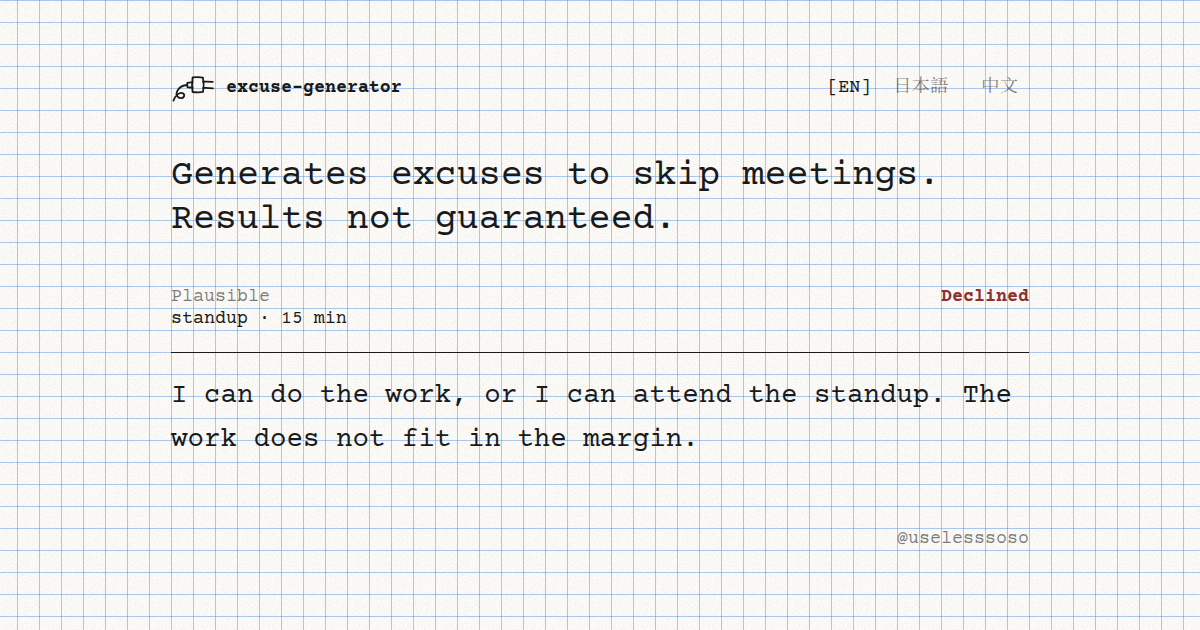
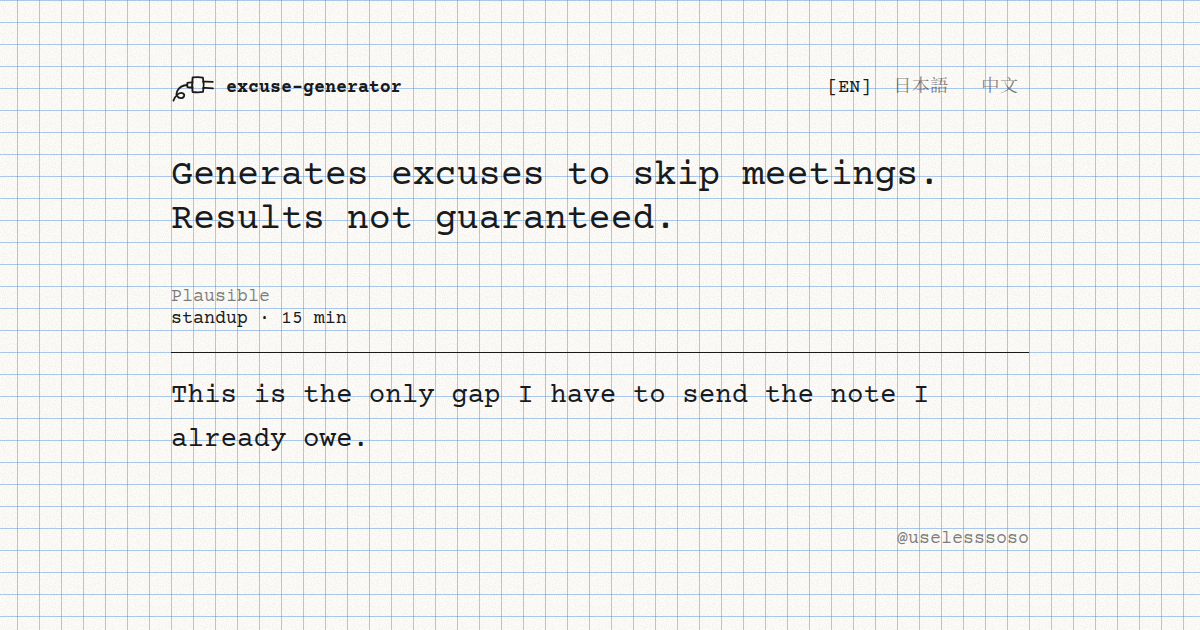
Show the declined label only for a decline message.
The red Declined, 欠席, and 已拒绝 stamp stays hidden on a plain excuse and appears when Write it as a decline is checked.

diff --git a/app.js b/app.js
@@ -233,7 +233,7 @@
     if (!current) {
       invite.dataset.state = "empty";
       invite.dataset.tone = "";
-      text("stamp", t("stampEmpty"));
+      showStamp(t("stampEmpty"));
       text("kicker", t("onCalendar"));
       output.textContent = t("empty");
       output.classList.remove("is-memo");
@@ -247,7 +247,8 @@
     lastKey = tone + "|" + lang + "|" + current.index;
     invite.dataset.state = "ready";
     invite.dataset.tone = tone;
-    text("stamp", t("stampDeclined"));
+    if (asDecline.checked) showStamp(t("stampDeclined"));
+    else hideStamp();
     text("kicker", toneLabel(tone));
     var shown = asDecline.checked ? declineMessage(built.text, meeting, audience) : built.text;
     output.textContent = shown;
@@ -471,6 +472,18 @@
 
   function text(id, value) {
     document.getElementById(id).textContent = value;
+  }
+
+  function showStamp(value) {
+    var stamp = document.getElementById("stamp");
+    stamp.hidden = false;
+    stamp.textContent = value;
+  }
+
+  function hideStamp() {
+    var stamp = document.getElementById("stamp");
+    stamp.hidden = true;
+    stamp.textContent = "";
   }
 
   function t(key) {
